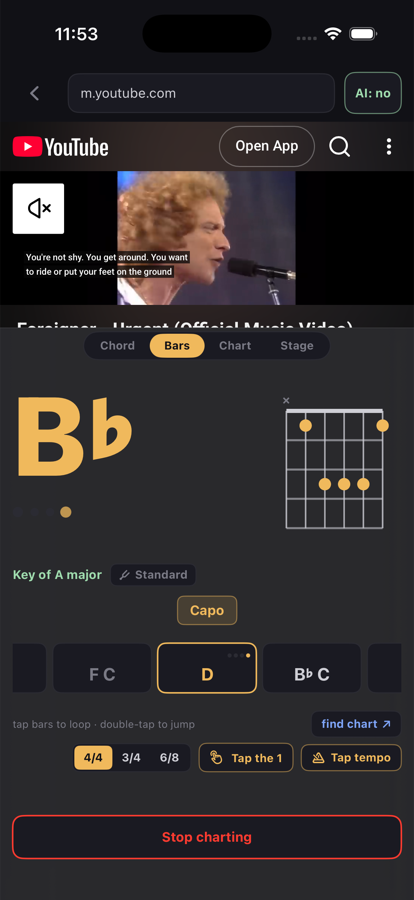
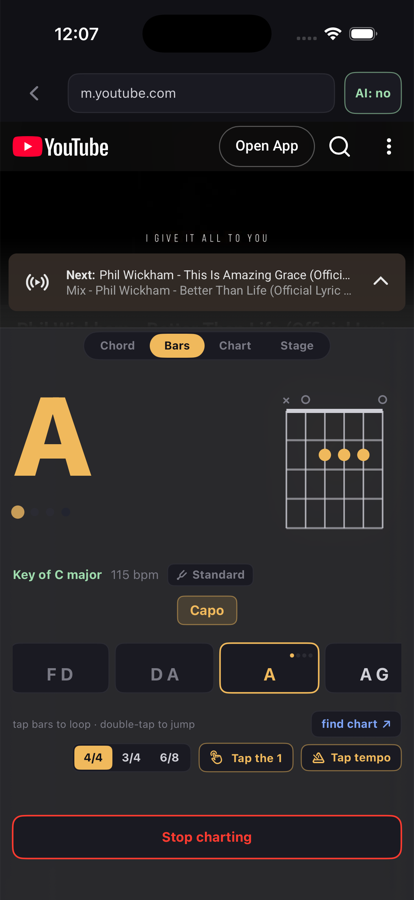
iPhone page: screenshots without AC/DC — Phil Wickham video, Julie Morr file chart, live GIFs

diff --git a/ios.html b/ios.html
@@ -284,32 +284,36 @@
 <section id="shots">
   <div class="wrap">
     <h2>Screenshots</h2>
-    <p class="lead">Straight from the iOS Simulator while the app was being built. The
-      real thing looks like this.</p>
+    <p class="lead">Straight from the iOS Simulator while the app was being built. The animated
+      ones are live captures. The real thing looks like this.</p>
     <div class="shots">
       <figure class="shot-card">
-        <img src="assets/ios-listen.png" alt="The Chart tab: Listen, Browser, and File as three equal circles, with recent songs underneath" loading="lazy">
+        <img src="assets/ios-listen.png" alt="The Chart tab: Listen, Browser, and File as three equal circles, with two recent songs underneath" loading="lazy">
         <figcaption><b>Three doors.</b> Mic, browser, or file. Recent songs remember their key, tempo, and loop.</figcaption>
       </figure>
       <figure class="shot-card">
-        <img src="assets/ios-bars.png" alt="Charting a YouTube video on guitar in standard tuning: the current chord B-flat, its diagram, key of A major, tempo, and the bar ribbon" loading="lazy">
-        <figcaption><b>Charting a video.</b> Lossless audio from the player, the whole song decoded, the bar ribbon riding underneath.</figcaption>
+        <img src="assets/ios-bars.gif" alt="Charting a YouTube lyric video on guitar in standard tuning, the bar ribbon moving with the song" loading="lazy">
+        <figcaption><b>Charting a video.</b> Lossless audio from the player, the whole song decoded, the bar ribbon riding underneath. Live capture.</figcaption>
       </figure>
       <figure class="shot-card">
-        <img src="assets/ios-piano.png" alt="The same song with Piano as the instrument: an F chord with the keys lit on a one-octave keyboard" loading="lazy">
+        <img src="assets/ios-file.gif" alt="A whole-song chart of an audio file playing back: 6/8 detected, the waveform timeline, bars lighting up in time" loading="lazy">
+        <figcaption><b>A file, charted before it plays.</b> Julie Morr's "Surely Suddenly (Waylon's Song)": 6/8 found on its own, every bar decoded with hindsight.</figcaption>
+      </figure>
+      <figure class="shot-card">
+        <img src="assets/ios-piano.png" alt="The same song with Piano as the instrument: a C chord with the keys lit on a one-octave keyboard" loading="lazy">
         <figcaption><b>Piano.</b> Pick an instrument in Settings and every diagram follows. Keys light up for the triad.</figcaption>
       </figure>
       <figure class="shot-card">
-        <img src="assets/ios-uke.png" alt="The same song on ukulele: a B-flat shape on four strings, tuning badge reading gCEA" loading="lazy">
+        <img src="assets/ios-uke.png" alt="The same song on ukulele: a C shape on four strings, tuning badge reading gCEA" loading="lazy">
         <figcaption><b>Ukulele.</b> Nine instruments: guitar, baritone, uke, baritone uke, mandolin, banjo, bass, piano, and Nashville numbers.</figcaption>
       </figure>
       <figure class="shot-card">
-        <img src="assets/ios-chord.png" alt="The Chord position on a guitar in DADGAD: the tuning badge reads DADGAD drone, capo 2 shown on the nut, the diagram drawn for that tuning" loading="lazy">
-        <figcaption><b>Any tuning.</b> DADGAD with drone voicings, capo 2 advised and drawn on the nut. Standard, drop, open, and modal tunings all get their own shapes.</figcaption>
+        <img src="assets/ios-chord.png" alt="The Chord position on a guitar in DADGAD: tuning badge reading DADGAD drone, the advisor recommending capo 5 and G shapes" loading="lazy">
+        <figcaption><b>Any tuning.</b> DADGAD with drone voicings, and a capo advisor that knows it: "capo 5, play G shapes." Standard, drop, open, and modal tunings all get their own shapes.</figcaption>
       </figure>
       <figure class="shot-card">
-        <img src="assets/ios-stage.png" alt="Stage mode: a huge D on black, next E underneath, the diagram, a brightness slider, beat dots and the key" loading="lazy">
-        <figcaption><b>Stage.</b> Readable from the drummer's seat, with your own brightness slider.</figcaption>
+        <img src="assets/ios-stage.gif" alt="Stage mode: a huge chord on black, the next chord underneath, the diagram, beat dots and a brightness slider" loading="lazy">
+        <figcaption><b>Stage.</b> Readable from the drummer's seat, with your own brightness slider. Live capture.</figcaption>
       </figure>
       <figure class="shot-card">
         <img src="assets/ios-tuner.png" alt="The tuner: Single, Strum and Strobe modes, tuning, temperament, stretch, capo and reference pitch settings, and the setup tools" loading="lazy">
